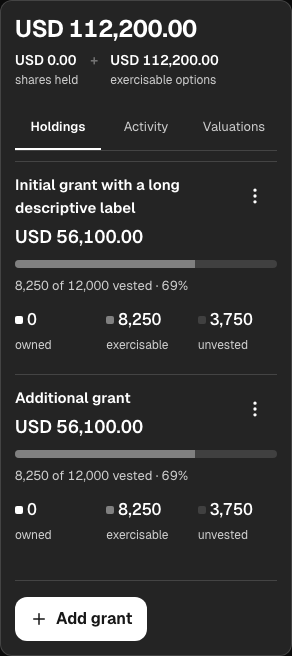
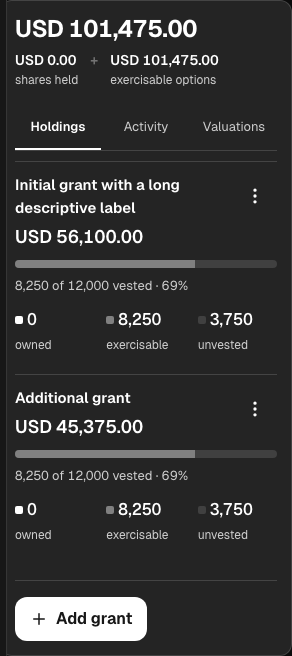
Simplify optional ESOP fields and reuse grant strike prices

Changed region(s): [[0.0, 0.0, 0.0308, 1.0], [0.2774, 0.0305, 0.6781, 0.122], [0.1849, 0.6402, 0.4007, 0.6707]]

diff --git a/packages/web/tests/equity-mobile.spec.ts b/packages/web/tests/equity-mobile.spec.ts
@@ -92,11 +92,18 @@ for (const width of [320, 402, 768, 1280]) {
     await panel.getByRole("menuitem", { name: "Edit", exact: true }).click();
     await expect(panel.locator("form.equity-form")).toHaveCount(1);
     await expect(panel.locator(".sub-title")).toHaveText("Edit grant");
+    await expect(panel.getByLabel("Cliff (months)", { exact: true })).toBeVisible();
+    await expect(panel.getByLabel("Cliff (months)", { exact: true })).toHaveValue("12");
     await capture(panel, testInfo, `edit-grant-${width}`);
     await fits(panel);
     await panel.getByRole("button", { name: "Cancel", exact: true }).click();
     await panel.getByRole("button", { name: "Add grant", exact: true }).click();
     await expect(panel.getByLabel("Company", { exact: true })).toHaveValue("");
+    await expect(panel.getByLabel("Strike price", { exact: true })).toHaveValue("1.2");
+    await expect(panel.getByLabel("Cliff (months)", { exact: true })).toBeHidden();
+    await panel.getByText("Cliff (optional)", { exact: true }).click();
+    await expect(panel.getByLabel("Cliff (months)", { exact: true })).toHaveValue("0");
+    await panel.getByText("Cliff (optional)", { exact: true }).click();
     await capture(panel, testInfo, `add-grant-${width}`);
     await fits(panel);
     await panel.getByRole("button", { name: "Cancel", exact: true }).click();
@@ -112,6 +119,8 @@ for (const width of [320, 402, 768, 1280]) {
     await panel.getByRole("tab", { name: /Valuations/ }).click();
     await expect(panel.getByText("Price per unit", { exact: true })).toBeVisible();
     await expect(panel.getByRole("button", { name: "Record today" })).toBeVisible();
+    await expect(panel.getByLabel("Note (optional)", { exact: true }).first()).toBeHidden();
+    await expect(panel.getByLabel("Note (optional)", { exact: true }).last()).toBeHidden();
     await capture(panel, testInfo, `valuations-${width}`);
     await fits(panel);
   });
@@ -133,7 +142,7 @@ test("multiple grants with long labels fit on a small phone and in the account l
       const grant = await page.request.post(`/api/accounts/${account.id}/equity-grants`, {
         data: {
           company: "Startco", grant_date: "2024-01-01", quantity: 12000,
-          strike_minor: 120, unit_value_minor: 800, vest_months: 48, cliff_months: 12, note,
+          strike_minor: note === "Additional grant" ? 250 : 120, unit_value_minor: 800, vest_months: 48, cliff_months: 12, note,
         },
       });
       expect(grant.ok()).toBe(true);
@@ -147,6 +156,7 @@ test("multiple grants with long labels fit on a small phone and in the account l
     // Exercise the native inputs through the UI, then verify exact persisted cents/units.
     await panel.getByRole("button", { name: "Add grant", exact: true }).click();
     let form = panel.locator("form.equity-form");
+    await expect(form.getByLabel("Strike price", { exact: true })).toHaveValue("2.5");
     await form.getByLabel("Company", { exact: true }).fill("Startco");
     await form.getByLabel("Vesting starts", { exact: true }).fill("2024-01-01");
     const units = form.getByLabel("Units granted", { exact: true });
@@ -157,8 +167,8 @@ test("multiple grants with long labels fit on a small phone and in the account l
     await units.fill("1.25e3");
     await form.getByLabel("Strike price", { exact: true }).fill("1.234e1");
     await form.getByLabel("Vesting (months)", { exact: true }).fill("12");
-    await form.getByLabel("Cliff (months)", { exact: true }).fill("0");
-    await form.locator(".form-optional summary").click();
+    await expect(form.getByLabel("Cliff (months)", { exact: true })).toBeHidden();
+    await form.locator("summary").filter({ hasText: "Grant label (optional)" }).click();
     const label = form.getByLabel("Grant label (optional)", { exact: true });
     await label.fill("Touch input grant");
     await label.fill("");
@@ -168,11 +178,12 @@ test("multiple grants with long labels fit on a small phone and in the account l
     await form.getByRole("button", { name: "Add grant", exact: true }).click();
     await expect(panel.locator(".grant")).toHaveCount(3);
     const grants = await (await page.request.get(`/api/accounts/${account.id}/equity-grants`)).json() as Array<{
-      id: number; quantity: number; strike_minor: number; note: string | null;
+      id: number; quantity: number; strike_minor: number; cliff_months: number; note: string | null;
     }>;
     const saved = grants.find((g) => g.note === "Touch input grant")!;
     expect(saved.quantity).toBe(1250);
     expect(saved.strike_minor).toBe(1234);
+    expect(saved.cliff_months).toBe(0);
     await panel.getByRole("button", { name: "Actions for Touch input grant", exact: true }).click();
     await panel.getByRole("menuitem", { name: "Exercise", exact: true }).click();
     form = panel.locator("form.equity-form");
@@ -192,6 +203,29 @@ test("multiple grants with long labels fit on a small phone and in the account l
     await expect(panel.locator(".record-grant").first()).toContainText(/grant/);
     await fits(panel);
     await capture(panel, testInfo, "multiple-grants-activity-320");
+    await panel.getByRole("tab", { name: /Valuations/ }).click();
+    const markForm = panel.locator(".mark-form");
+    await markForm.locator("summary").click();
+    const markNote = markForm.getByLabel("Note (optional)", { exact: true });
+    await markNote.fill("Synthetic funding round");
+    await markNote.fill("");
+    await expect(markNote).toBeVisible();
+    await markNote.fill("Synthetic funding round");
+    await markForm.getByLabel("Value per unit", { exact: true }).fill("9");
+    await markForm.getByRole("button", { name: "Set price", exact: true }).click();
+    await expect(panel.locator(".mark-note", { hasText: "Synthetic funding round" })).toBeVisible();
+    await expect(markNote).toBeHidden();
+    const valuationForm = panel.locator(".value-form");
+    await valuationForm.locator("summary").click();
+    await valuationForm.getByLabel("Note (optional)", { exact: true }).fill("Synthetic valuation note");
+    await valuationForm.getByLabel("Value", { exact: true }).fill("1000");
+    await valuationForm.getByRole("button", { name: "Set value", exact: true }).click();
+    const valueRow = panel.locator(".valuations .line", { hasText: "Synthetic valuation note" });
+    await expect(valueRow).toBeVisible();
+    await valueRow.getByRole("button", { name: /^Edit value/ }).click();
+    await expect(valuationForm.getByLabel("Note (optional)", { exact: true })).toBeVisible();
+    await expect(valuationForm.getByLabel("Note (optional)", { exact: true })).toHaveValue("Synthetic valuation note");
+    await fits(panel);
   } finally {
     // Remove only the synthetic account this test owns.
     expect((await page.request.delete(`/api/accounts/${account.id}`)).ok()).toBe(true);

diff --git a/packages/web/src/lib/EquityPanel.svelte b/packages/web/src/lib/EquityPanel.svelte
@@ -3,6 +3,7 @@
   import { api, formatMoney, formatDate, type Schemas } from "./api";
   import Icon from "./Icon.svelte";
   import InvestmentTabs from "./InvestmentTabs.svelte";
+  import OptionalNote from "./OptionalNote.svelte";
   import ValuationPanel from "./ValuationPanel.svelte";
 
   let { accountId, onchange }: { accountId: number; onchange?: () => void } = $props();
@@ -102,12 +103,18 @@
   let editingGrant = $state<number | null>(null);
   let grantForm = $state(blankGrant());
   let grantNoteOpen = $state(false);
+  let grantCliffOpen = $state(false);
 
   function startAddGrant() {
     exerciseFor = null;
     confirmDeleteGrant = null;
     editingGrant = null;
     grantForm = blankGrant();
+    const latestGrant = Object.values(terms).sort((a, b) =>
+      b.grant_date.localeCompare(a.grant_date) || b.id - a.id
+    )[0];
+    if (latestGrant) grantForm.strike = majorOf(latestGrant.strike_minor);
+    grantCliffOpen = false;
     grantNoteOpen = false;
     showGrantForm = true;
     error = null;
@@ -128,6 +135,7 @@
       cliff_months: String(row.cliff_months),
       note: row.note ?? "",
     };
+    grantCliffOpen = row.cliff_months > 0;
     grantNoteOpen = !!row.note;
     showGrantForm = true;
     error = null;
@@ -237,6 +245,7 @@
     note: "",
   });
   let markForm = $state(blankMark());
+  let markNoteOpen = $state(false);
   let confirmDeleteMark = $state<number | null>(null);
 
   async function saveMark() {
@@ -254,6 +263,7 @@
     busy = false;
     if (e) return fail(e, "Couldn't save that price.");
     markForm = blankMark();
+    markNoteOpen = false;
     await load();
     // The server nudges the equity-rebuild task on this write, so every valuation from this
     // date forward is restated within a second or two. Said in the future tense rather than the
@@ -507,13 +517,7 @@
                   />
                 </label>
               </div>
-              <details class="form-optional" bind:open={exerciseNoteOpen}>
-                <summary>Note (optional)</summary>
-                <label class="field">
-                  <span class="sr-only">Note (optional)</span>
-                  <input class="input" bind:value={exerciseForm.note} />
-                </label>
-              </details>
+              <OptionalNote bind:value={exerciseForm.note} bind:open={exerciseNoteOpen} />
               <div class="row form-acts">
                 <button class="btn btn-sm btn-primary" type="submit" disabled={busy}
                   >Record exercise</button
@@ -566,6 +570,9 @@
               <span class="small muted">Vesting months</span>
               <input class="input tabular" aria-label="Vesting (months)" type="number" inputmode="numeric" min="1" step="1" required value={grantForm.vest_months} oninput={(event) => (grantForm.vest_months = event.currentTarget.value)} />
             </label>
+          </div>
+          <details class="form-optional" bind:open={grantCliffOpen}>
+            <summary>Cliff (optional)</summary>
             <label class="field">
               <span class="small muted">Cliff months</span>
               <input
@@ -580,7 +587,7 @@
                 oninput={(event) => (grantForm.cliff_months = event.currentTarget.value)}
               />
             </label>
-          </div>
+          </details>
           <details class="form-optional" bind:open={grantNoteOpen}>
             <summary>Grant label (optional)</summary>
             <label class="field">
@@ -662,14 +669,7 @@
               <span class="small muted">From</span>
               <input class="input" type="date" bind:value={markForm.as_of} />
             </label>
-            <label class="field f-note">
-              <span class="small muted">Note (optional)</span>
-              <input
-                class="input"
-                placeholder="e.g. Series B funding round"
-                bind:value={markForm.note}
-              />
-            </label>
+            <OptionalNote bind:value={markForm.note} bind:open={markNoteOpen} placeholder="e.g. Series B funding round" />
             <button
               class="btn btn-sm btn-primary"
               onclick={saveMark}
@@ -1152,7 +1152,7 @@
       grid-template-columns: minmax(0, 1fr);
       gap: 14px;
     }
-    .mark-form .f-value, .mark-form .f-note, .field {
+    .mark-form .f-value, .field {
       min-width: 0;
     }
     .field .input {
@@ -1197,15 +1197,10 @@
     gap: 10px;
     align-items: flex-end;
   }
-  /* Floors, not just weights: a flex row shrinks its items before it wraps, so without these
-     the note collapsed to "e.g. Se" on a phone instead of dropping to its own line. */
+  /* Keep the price input readable before the flex row wraps. */
   .mark-form .f-value {
     flex: 1 1 120px;
     min-width: 110px;
-  }
-  .mark-form .f-note {
-    flex: 4 1 180px;
-    min-width: 160px;
   }
   .mark {
     display: grid;

diff --git a/packages/web/src/lib/ValuationPanel.svelte b/packages/web/src/lib/ValuationPanel.svelte
@@ -1,4 +1,5 @@
 <script lang="ts">
+  import OptionalNote from "./OptionalNote.svelte";
   import { onMount } from "svelte";
   import { api, formatMoney, formatDate, type Schemas } from "./api";
 
@@ -35,6 +36,7 @@
   let amount = $state("");
   let asOf = $state(new Date().toISOString().slice(0, 10));
   let note = $state("");
+  let noteOpen = $state(false);
   let busy = $state(false);
   let error = $state<string | null>(null);
   let confirmingDelete = $state<number | null>(null);
@@ -79,6 +81,7 @@
     amount = String(Math.abs(v.value_minor) / 100);
     asOf = v.as_of;
     note = v.note ?? "";
+    noteOpen = !!note;
     error = null;
   }
 
@@ -86,6 +89,7 @@
     editingId = null;
     amount = "";
     note = "";
+    noteOpen = false;
     asOf = new Date().toISOString().slice(0, 10);
     error = null;
   }
@@ -146,10 +150,7 @@
       <span class="small muted">As of</span>
       <input class="input" type="date" aria-label="Value as of" bind:value={asOf} />
     </label>
-    <label class="field f-note">
-      <span class="small muted">Note (optional)</span>
-      <input class="input" placeholder="e.g. opening balance from the IR letter" bind:value={note} />
-    </label>
+    <OptionalNote bind:value={note} bind:open={noteOpen} placeholder="e.g. opening balance from the IR letter" />
     <button class="btn btn-sm btn-primary" onclick={save} disabled={busy || !amount.trim()}>
       {editing ? "Save changes" : `Set ${isLiability ? "balance" : "value"}`}
     </button>
@@ -262,18 +263,11 @@
     align-items: flex-end;
     gap: 10px;
   }
-  /* Floors, not just grow weights: a flex row shrinks its items before it wraps, so without
-     these the note input was squeezed to a clipped "e.g. op" on a phone — the width this app
-     actually targets — instead of dropping to a line of its own. */
+  /* Keep the amount input readable before the flex row wraps. */
   .value-form .f-amount {
     flex: 1 1 130px;
     min-width: 120px;
   }
-  .value-form .f-note {
-    flex: 4 1 180px;
-    min-width: 160px;
-  }
-
   .hint {
     margin: 6px 0 0;
     color: var(--text-muted);

diff --git a/packages/web/src/lib/OptionalNote.svelte b/packages/web/src/lib/OptionalNote.svelte
@@ -1,0 +1,39 @@
+<script lang="ts">
+  let {
+    value = $bindable(""),
+    open = $bindable(false),
+    placeholder,
+  }: { value?: string; open?: boolean; placeholder?: string } = $props();
+</script>
+
+<details class="form-optional" bind:open>
+  <summary>Note (optional)</summary>
+  <label>
+    <span class="sr-only">Note (optional)</span>
+    <input class="input" {placeholder} bind:value />
+  </label>
+</details>
+
+<style>
+  .form-optional {
+    width: 100%;
+    min-width: 0;
+    margin: 4px 0 0;
+    font-size: 13px;
+  }
+  summary {
+    min-height: 44px;
+    padding: 12px 0;
+    text-align: left;
+    color: var(--text-muted);
+    cursor: pointer;
+  }
+  label { display: block; }
+  input {
+    width: 100%;
+    min-width: 0;
+    min-height: 44px;
+    font-size: 16px;
+    text-align: left;
+  }
+</style>

diff --git a/packages/web/tests/valuations.spec.ts b/packages/web/tests/valuations.spec.ts
@@ -73,7 +73,8 @@ test("a back-dated balance can be set, and lands in date order", async ({ page }
 
   await page.getByLabel("Value", { exact: true }).fill("650000");
   await page.getByLabel("Value as of").fill("2019-06-01");
-  await page.locator('input[placeholder*="opening balance"]').fill("bought it");
+  await page.locator(".value-form summary").click();
+  await page.getByLabel("Note (optional)", { exact: true }).fill("bought it");
   await page.getByRole("button", { name: "Set value", exact: true }).last().click();
 
   // Newest-first, so a 2019 value is the last row on the page.
